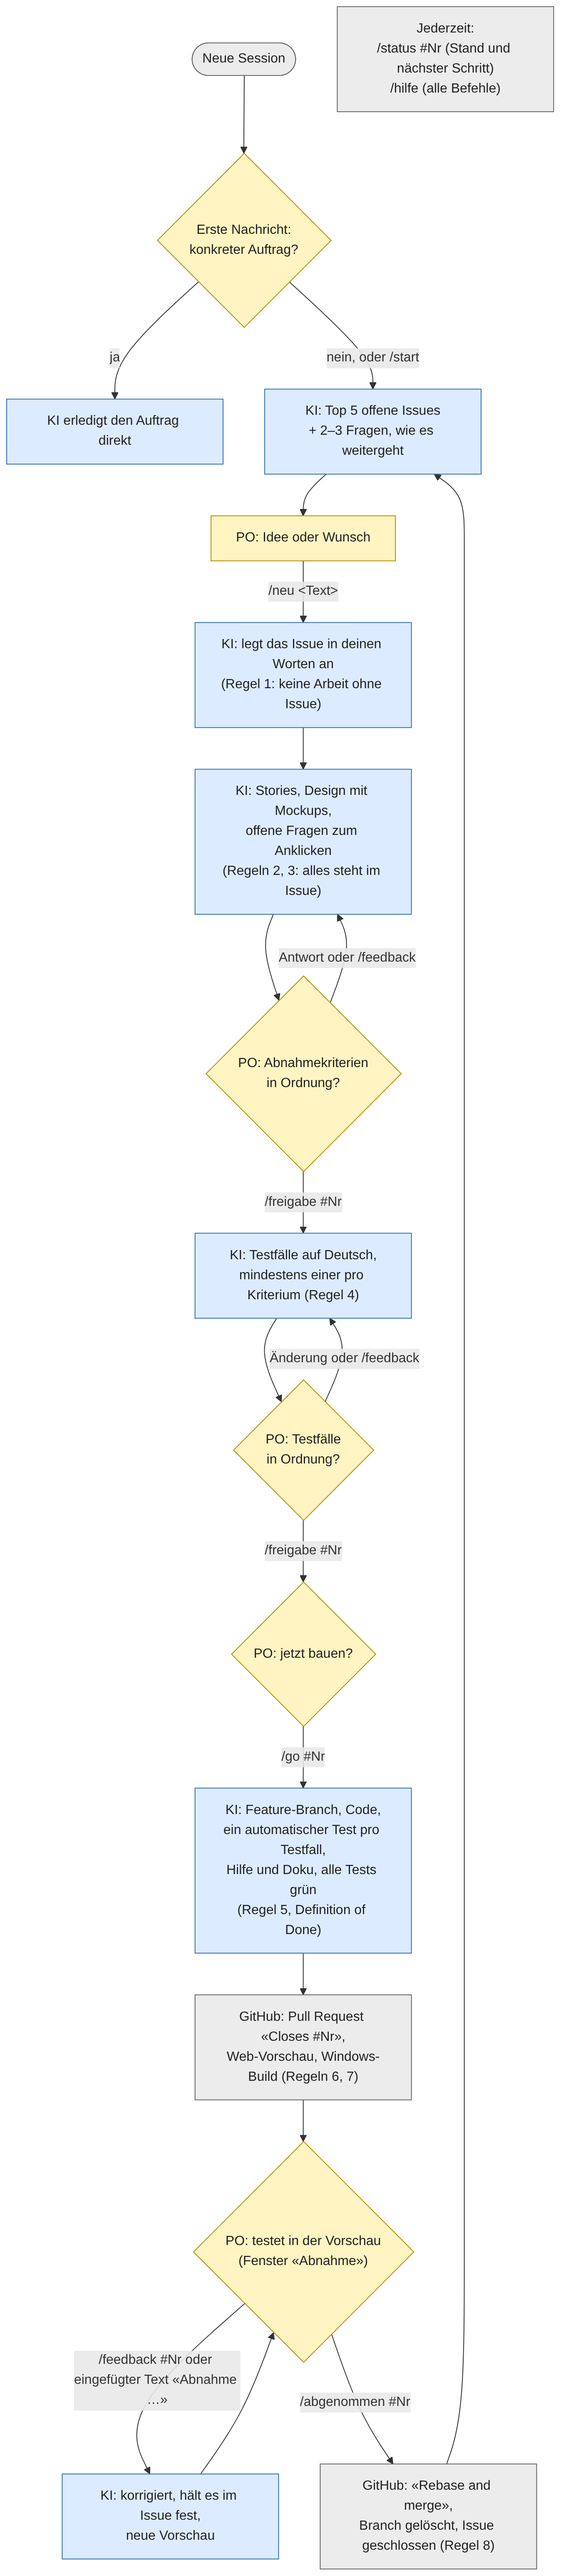
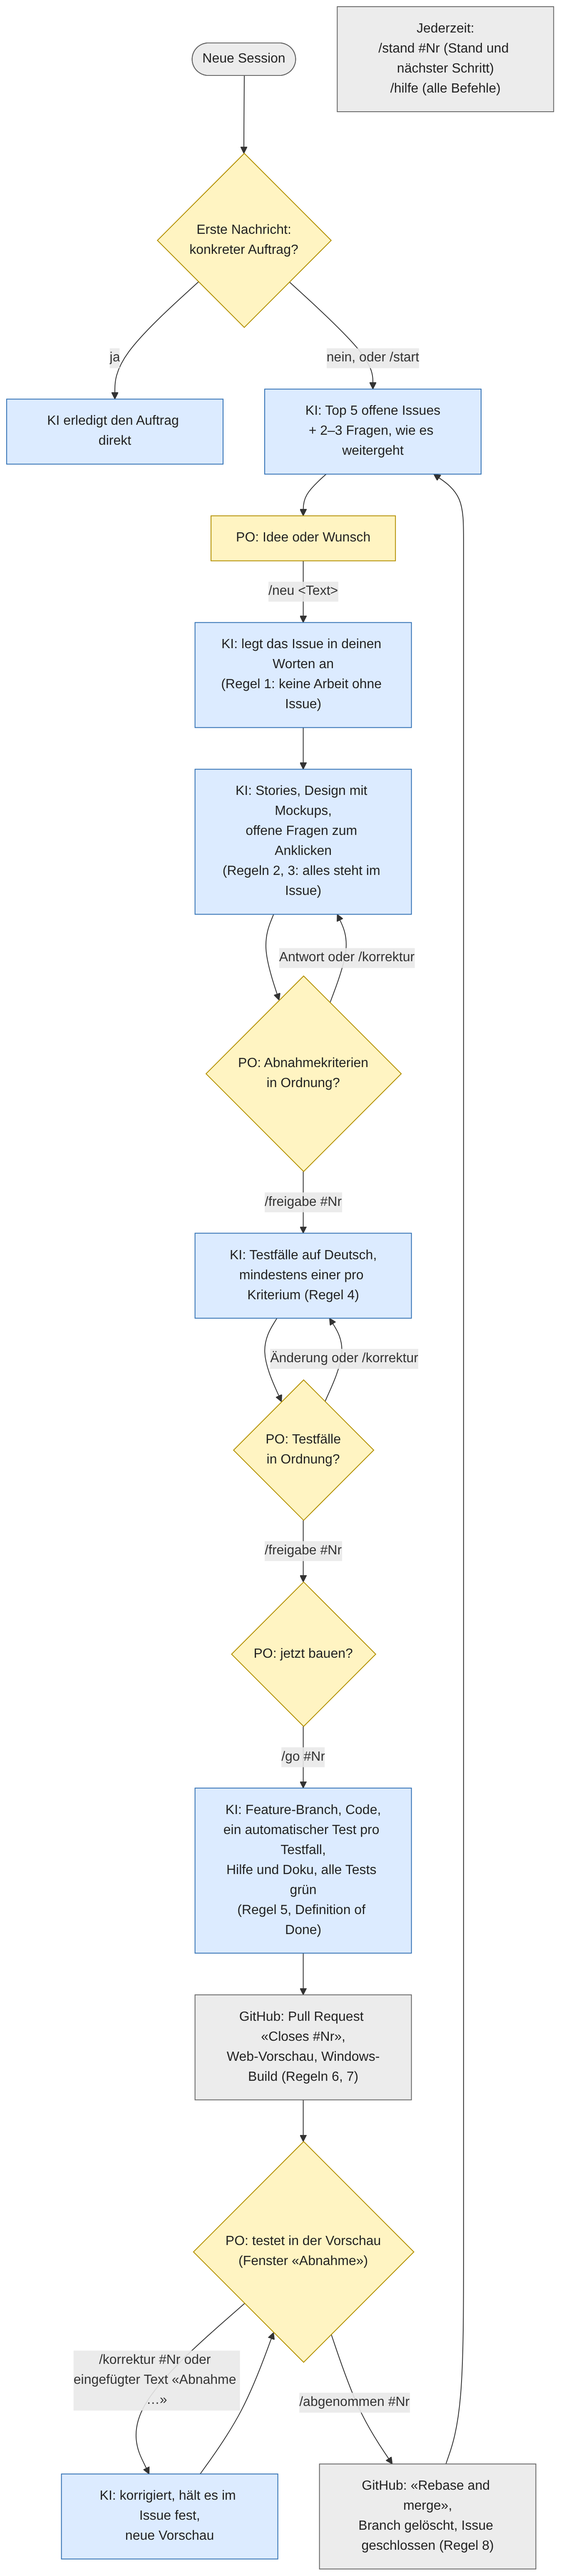
Rename /status to /stand and /feedback to /korrektur (#43)
Both names are built into Claude Code and take precedence over skills.
The PO chose German-only commands; the test now fails when a command
reuses a built-in name.

Claude-Session: https://claude.ai/code/session_01NsQR14kNS22wjKkgxVqed1

diff --git a/src/test/workingMode.test.ts b/src/test/workingMode.test.ts
@@ -44,6 +44,16 @@ describe('PO commands', () => {
     }
   });
 
+  test('no command uses the name of a built-in Claude Code command', () => {
+    // Built-in commands take precedence over skills, so a skill with such a name never runs
+    const builtIn = [
+      'help', 'status', 'feedback', 'bug', 'clear', 'compact', 'config', 'cost', 'doctor', 'init',
+      'login', 'logout', 'memory', 'model', 'review', 'resume', 'agents', 'mcp', 'permissions',
+      'hooks', 'context', 'export', 'exit', 'add-dir', 'release-notes', 'rewind', 'usage', 'plugin'
+    ];
+    expect(skills.filter((skill) => builtIn.includes(skill))).toEqual([]);
+  });
+
   test('/hilfe lists exactly the existing commands', () => {
     // Given the overview of /hilfe
     const help = read('.claude/skills/hilfe/SKILL.md');

diff --git a/docs/working-mode.md b/docs/working-mode.md
@@ -21,19 +21,19 @@ flowchart TD
   IDEA -- "/neu &lt;Text&gt;" --> ISSUE["KI: legt das Issue in deinen Worten an<br/>(Regel 1: keine Arbeit ohne Issue)"]
   ISSUE --> REFINE["KI: Stories, Design mit Mockups,<br/>offene Fragen zum Anklicken<br/>(Regeln 2, 3: alles steht im Issue)"]
   REFINE --> AC{"PO: Abnahmekriterien<br/>in Ordnung?"}
-  AC -- "Antwort oder /feedback" --> REFINE
+  AC -- "Antwort oder /korrektur" --> REFINE
   AC -- "/freigabe #Nr" --> TC["KI: Testfälle auf Deutsch,<br/>mindestens einer pro Kriterium (Regel 4)"]
   TC --> TCOK{"PO: Testfälle<br/>in Ordnung?"}
-  TCOK -- "Änderung oder /feedback" --> TC
+  TCOK -- "Änderung oder /korrektur" --> TC
   TCOK -- "/freigabe #Nr" --> GO{"PO: jetzt bauen?"}
   GO -- "/go #Nr" --> BUILD["KI: Feature-Branch, Code,<br/>ein automatischer Test pro Testfall,<br/>Hilfe und Doku, alle Tests grün<br/>(Regel 5, Definition of Done)"]
   BUILD --> PR["GitHub: Pull Request «Closes #Nr»,<br/>Web-Vorschau, Windows-Build (Regeln 6, 7)"]
   PR --> CHECK{"PO: testet in der Vorschau<br/>(Fenster «Abnahme»)"}
-  CHECK -- "/feedback #Nr oder eingefügter Text «Abnahme …»" --> FIX["KI: korrigiert, hält es im Issue fest,<br/>neue Vorschau"]
+  CHECK -- "/korrektur #Nr oder eingefügter Text «Abnahme …»" --> FIX["KI: korrigiert, hält es im Issue fest,<br/>neue Vorschau"]
   FIX --> CHECK
   CHECK -- "/abgenommen #Nr" --> MERGE["GitHub: «Rebase and merge»,<br/>Branch gelöscht, Issue geschlossen (Regel 8)"]
   MERGE --> START
-  ANY["Jederzeit:<br/>/status #Nr (Stand und nächster Schritt)<br/>/hilfe (alle Befehle)"]
+  ANY["Jederzeit:<br/>/stand #Nr (Stand und nächster Schritt)<br/>/hilfe (alle Befehle)"]
 
   classDef po fill:#fff4c2,stroke:#b38f00,color:#222
   classDef ai fill:#dcebff,stroke:#2f6fb3,color:#222
@@ -56,13 +56,13 @@ The PO can use short commands in the chat. They are shortcuts: plain sentences (
 | Command | Step | What the AI does |
 |---|---|---|
 | `/start` | – | Top 5 open issues and 2–3 questions on how to continue |
-| `/hilfe` | – | Lists and explains the commands (`/help` is built into Claude Code) |
+| `/hilfe` | – | Lists and explains the commands. The commands are German because `/help`, `/status` and `/feedback` are built into Claude Code and would take precedence |
 | `/neu <text>` | 1–2 | Creates the issue in the PO's words, proposes stories, asks the open questions |
 | `/freigabe #<n>` | 3, 5 | Records the approval of the acceptance criteria (then proposes test cases) or of the test cases (then asks whether to build) |
 | `/go #<n>` | 5–7 | Builds the feature and opens the pull request with the preview link |
-| `/feedback #<n> <text>` | 8 | Records the feedback in the issue, fixes it, posts the new preview link |
+| `/korrektur #<n> <text>` | 8 | Records the feedback in the issue, fixes it, posts the new preview link |
 | `/abgenommen #<n>` | 8–9 | Records the acceptance, merges the pull request, deletes the branch; the issue closes |
-| `/status #<n>` | – | State, what is open, next step |
+| `/stand #<n>` | – | State, what is open, next step |
 
 ## Steps
 

diff --git a/CLAUDE.md b/CLAUDE.md
@@ -17,7 +17,7 @@ Overview for the PO: [`docs/working-mode.md`](docs/working-mode.md). Keep it in 
 
 **Session start.** When the PO's first message in a session has no concrete task (for example "Hallo", "Start", "Was steht an?"), or the PO types `/start`, follow the `start` skill (`.claude/skills/start/SKILL.md`): list the top 5 open issues of the backlog with a short assessment, then ask 2–3 questions or make suggestions on how the product could continue. When the first message is a concrete task, do the task directly.
 
-**PO commands** (#43). The PO can use short commands for the steps below; each is a skill in `.claude/skills/`: `/start`, `/neu`, `/freigabe`, `/go`, `/feedback`, `/abgenommen`, `/status`, `/hilfe` (the overview; `/help` is built into Claude Code). They are shortcuts: plain sentences ("passt", "go") mean the same. The PO talks in the conversation only, so record every decision in the issue yourself. `/abgenommen #<n>` is the explicit approval to merge that pull request.
+**PO commands** (#43). The PO can use short commands for the steps below; each is a skill in `.claude/skills/`: `/start`, `/neu`, `/freigabe`, `/go`, `/korrektur`, `/abgenommen`, `/stand`, `/hilfe` (the overview). Names never reuse a built-in command of Claude Code (`/help`, `/status`, `/feedback`, …), which would take precedence. They are shortcuts: plain sentences ("passt", "go") mean the same. The PO talks in the conversation only, so record every decision in the issue yourself. `/abgenommen #<n>` is the explicit approval to merge that pull request.
 
 1. **No work without an issue.** Every GitHub issue is a requirement, and every change (feature, test, documentation, process) belongs to one. If the PO asks for something that has no issue yet, create the issue first, in the PO's words, and link it in the conversation.
 2. **The issue is the record.** Everything proposed to or decided by the PO is posted in the issue in the same step, not only in the conversation: story breakdown, design proposals with screenshots of the mockups (images committed under `docs/design/` and embedded in the comment), phases, open questions and the PO's answers, test cases and their approval, and any later change of scope. Do not wait to be asked.

diff --git a/.claude/skills/korrektur/SKILL.md b/.claude/skills/korrektur/SKILL.md
@@ -1,10 +1,10 @@
 ---
-name: feedback
-description: "The PO gives feedback on a pull request or an issue (/feedback #<n> <text>). Records it in the issue, fixes it and posts the new preview."
+name: korrektur
+description: "The PO reports a problem or gives feedback on a pull request or an issue (/korrektur #<n> <text>). Records it in the issue, fixes it and posts the new preview."
 argument-hint: "#<issue or pull request> <feedback>"
 ---
 
-# /feedback: the PO reports a problem (#43)
+# /korrektur: the PO reports a problem (#43; /feedback is built into Claude Code)
 
 Arguments: $ARGUMENTS. The number can be the issue or its pull request. A pasted "Abnahme …" text from the acceptance panel counts as feedback too.
 
@@ -14,4 +14,4 @@ Arguments: $ARGUMENTS. The number can be the issue or its pull request. A pasted
    - A change of an approved acceptance criterion or test case, or a new wish: say so, propose the change in the issue and ask with the question tool (change it in this pull request, or a new issue). Build only after the answer.
    - Unclear: ask with the question tool.
 3. Record what was fixed in the issue.
-4. Answer in German: what was fixed, what is open, the preview address (and the Windows build link if the app changed). Next step for the PO: `/abgenommen #<n>` or more `/feedback`.
+4. Answer in German: what was fixed, what is open, the preview address (and the Windows build link if the app changed). Next step for the PO: `/abgenommen #<n>` or more `/korrektur`.

diff --git a/.claude/skills/hilfe/SKILL.md b/.claude/skills/hilfe/SKILL.md
@@ -16,9 +16,9 @@ Answer exactly with this overview in German (keep it in line with the other skil
 | `/neu <Text>` | Du hast eine Idee oder ein Anliegen | Ich lege ein Issue in deinen Worten an und stelle die offenen Fragen |
 | `/freigabe #<Nr>` | Abnahmekriterien oder Testfälle passen | Ich halte die Freigabe fest. Danach schlage ich Testfälle vor oder frage, ob ich bauen soll |
 | `/go #<Nr>` | Bauen starten | Ich baue alles und schicke dir den Pull Request mit dem Link zur Vorschau |
-| `/feedback #<Nr> <Text>` | Beim Testen passt etwas nicht | Ich korrigiere es und schicke den neuen Link |
+| `/korrektur #<Nr> <Text>` | Beim Testen passt etwas nicht | Ich korrigiere es und schicke den neuen Link |
 | `/abgenommen #<Nr>` | Alles passt | Ich übernehme die Änderung in `main` und schliesse das Issue |
-| `/status #<Nr>` | Wo steht etwas? | Stand, was offen ist, und der nächste Schritt |
+| `/stand #<Nr>` | Wo steht etwas? | Stand, was offen ist, und der nächste Schritt |
 | `/hilfe` | Jederzeit | Diese Übersicht |
 
 `#<Nr>` ist die Nummer des Issues (oder des Pull Requests). Ohne Nummer nehme ich das Issue, um das es gerade geht.

diff --git a/.claude/skills/go/SKILL.md b/.claude/skills/go/SKILL.md
@@ -11,4 +11,4 @@ Arguments: $ARGUMENTS. If no issue number is given, use the issue this conversat
 1. Check the issue: the acceptance criteria and the test cases must be approved. If not, say what is missing (and that `/freigabe #<n>` approves it) and stop.
 2. Record "PO gave the go (date, via /go)" in the issue.
 3. Build following CLAUDE.md, workflow steps 5 to 7, without intermediate checks: feature branch from the latest `main`, implementation, automated tests per test case, help and documentation, `npm test` and `npm run test:e2e`, push, pull request starting with `Closes #<n>`, acceptance panel, link in the issue.
-4. Answer in German with the pull request, the web preview address and, if the app changed, the Windows build link. Next step for the PO: test, then `/abgenommen #<n>` or `/feedback #<n> <text>`.
+4. Answer in German with the pull request, the web preview address and, if the app changed, the Windows build link. Next step for the PO: test, then `/abgenommen #<n>` or `/korrektur #<n> <text>`.

diff --git a/.claude/skills/stand/SKILL.md b/.claude/skills/stand/SKILL.md
@@ -1,10 +1,10 @@
 ---
-name: status
-description: "The PO asks where an issue stands (/status #<n>). Short state and next step, read only."
+name: stand
+description: "The PO asks where an issue stands (/stand #<n>). Short state and next step, read only."
 argument-hint: "#<issue>"
 ---
 
-# /status: where does it stand? (#43)
+# /stand: where does it stand? (#43; /status is built into Claude Code)
 
 Arguments: $ARGUMENTS. Without a number, give the state of the issue this conversation is about; if there is none, run the `start` skill instead.
 
